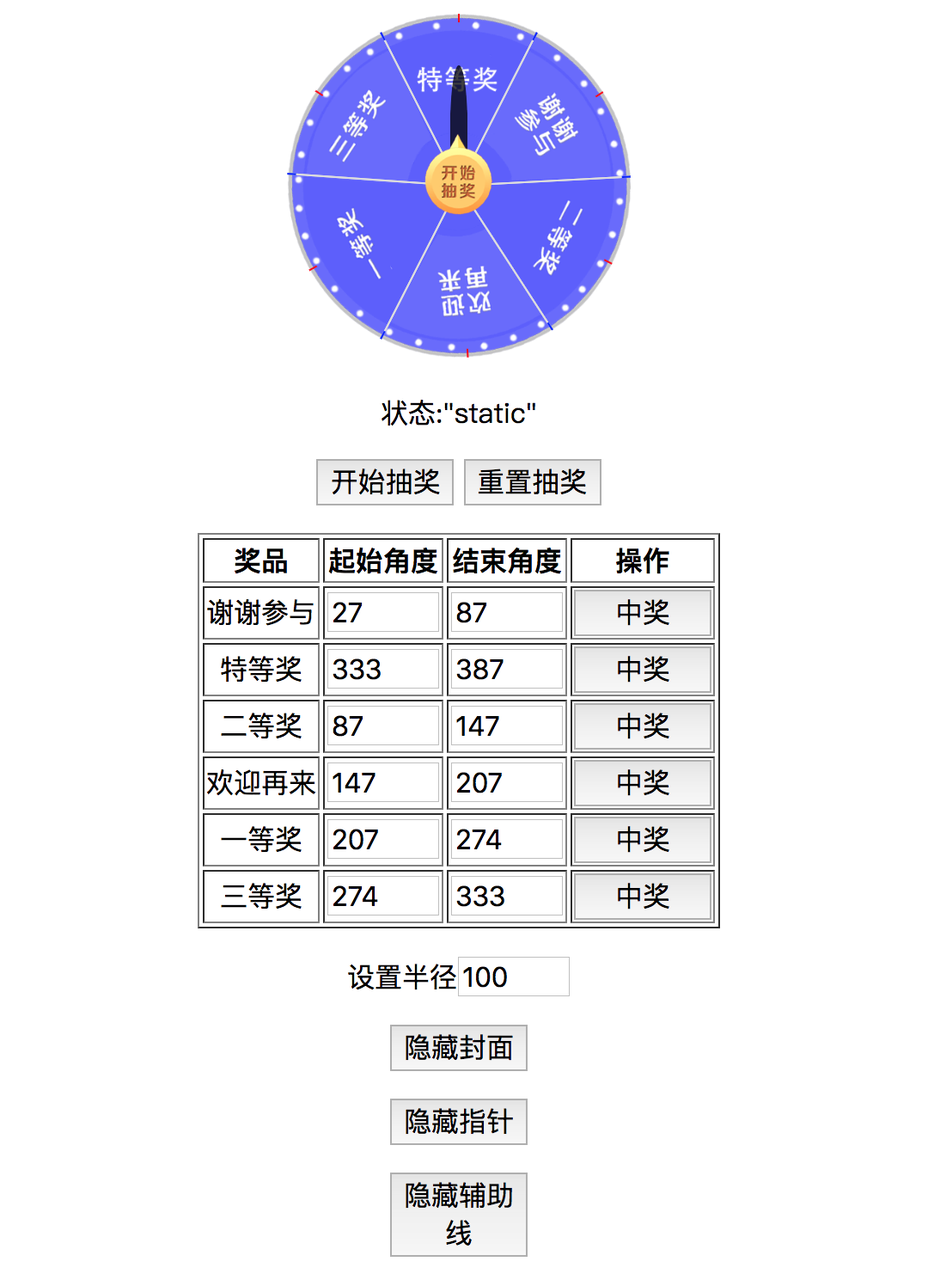
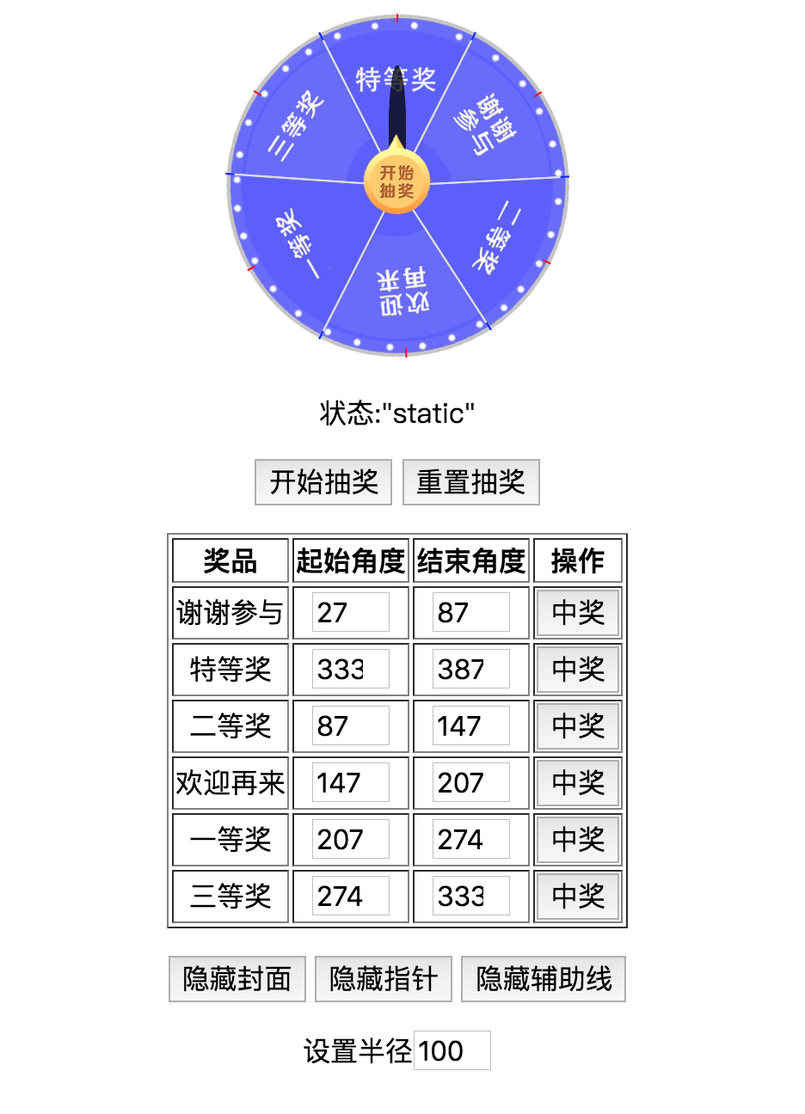
.

Changed region(s): [[0.1859, 0.0, 0.8056, 0.9877]]

diff --git a/dist/sample/sample.js b/dist/sample/sample.js
@@ -1,1 +1,1 @@
-webpackJsonp([0],[,,function(t,e){function n(t,e){var n=t[1]||"",a=t[3];if(!a)return n;if(e&&"function"==typeof btoa){var o=r(a);return[n].concat(a.sources.map(function(t){return"/*# sourceURL="+a.sourceRoot+t+" */"})).concat([o]).join("\n")}return[n].join("\n")}function r(t){return"/*# sourceMappingURL=data:application/json;charset=utf-8;base64,"+btoa(unescape(encodeURIComponent(JSON.stringify(t))))+" */"}t.exports=function(t){var e=[];return e.toString=function(){return this.map(function(e){var r=n(e,t);return e[2]?"@media "+e[2]+"{"+r+"}":r}).join("")},e.i=function(t,n){"string"==typeof t&&(t=[[null,t,""]]);for(var r={},a=0;a<this.length;a++){var o=this[a][0];"number"==typeof o&&(r[o]=!0)}for(a=0;a<t.length;a++){var i=t[a];"number"==typeof i[0]&&r[i[0]]||(n&&!i[2]?i[2]=n:n&&(i[2]="("+i[2]+") and ("+n+")"),e.push(i))}},e}},function(t,e,n){function r(t){for(var e=0;e<t.length;e++){var n=t[e],r=d[n.id];if(r){r.refs++;for(var a=0;a<r.parts.length;a++)r.parts[a](n.parts[a]);for(;a<n.parts.length;a++)r.parts.push(o(n.parts[a]));r.parts.length>n.parts.length&&(r.parts.length=n.parts.length)}else{for(var i=[],a=0;a<n.parts.length;a++)i.push(o(n.parts[a]));d[n.id]={id:n.id,refs:1,parts:i}}}}function a(){var t=document.createElement("style");return t.type="text/css",c.appendChild(t),t}function o(t){var e,n,r=document.querySelector('style[data-vue-ssr-id~="'+t.id+'"]');if(r){if(v)return m;r.parentNode.removeChild(r)}if(b){var o=p++;r=f||(f=a()),e=i.bind(null,r,o,!1),n=i.bind(null,r,o,!0)}else r=a(),e=s.bind(null,r),n=function(){r.parentNode.removeChild(r)};return e(t),function(r){if(r){if(r.css===t.css&&r.media===t.media&&r.sourceMap===t.sourceMap)return;e(t=r)}else n()}}function i(t,e,n,r){var a=n?"":r.css;if(t.styleSheet)t.styleSheet.cssText=h(e,a);else{var o=document.createTextNode(a),i=t.childNodes;i[e]&&t.removeChild(i[e]),i.length?t.insertBefore(o,i[e]):t.appendChild(o)}}function s(t,e){var n=e.css,r=e.media,a=e.sourceMap;if(r&&t.setAttribute("media",r),a&&(n+="\n/*# sourceURL="+a.sources[0]+" */",n+="\n/*# sourceMappingURL=data:application/json;base64,"+btoa(unescape(encodeURIComponent(JSON.stringify(a))))+" */"),t.styleSheet)t.styleSheet.cssText=n;else{for(;t.firstChild;)t.removeChild(t.firstChild);t.appendChild(document.createTextNode(n))}}var u="undefined"!=typeof document;if("undefined"!=typeof DEBUG&&DEBUG&&!u)throw new Error("vue-style-loader cannot be used in a non-browser environment. Use { target: 'node' } in your Webpack config to indicate a server-rendering environment.");var l=n(14),d={},c=u&&(document.head||document.getElementsByTagName("head")[0]),f=null,p=0,v=!1,m=function(){},b="undefined"!=typeof navigator&&/msie [6-9]\b/.test(navigator.userAgent.toLowerCase());t.exports=function(t,e,n){v=n;var a=l(t,e);return r(a),function(e){for(var n=[],o=0;o<a.length;o++){var i=a[o],s=d[i.id];s.refs--,n.push(s)}e?(a=l(t,e),r(a)):a=[];for(var o=0;o<n.length;o++){var s=n[o];if(0===s.refs){for(var u=0;u<s.parts.length;u++)s.parts[u]();delete d[s.id]}}}};var h=function(){var t=[];return function(e,n){return t[e]=n,t.filter(Boolean).join("\n")}}()},function(t,e){t.exports=function(t,e,n,r,a,o){var i,s=t=t||{},u=typeof t.default;"object"!==u&&"function"!==u||(i=t,s=t.default);var l="function"==typeof s?s.options:s;e&&(l.render=e.render,l.staticRenderFns=e.staticRenderFns,l._compiled=!0),n&&(l.functional=!0),a&&(l._scopeId=a);var d;if(o?(d=function(t){t=t||this.$vnode&&this.$vnode.ssrContext||this.parent&&this.parent.$vnode&&this.parent.$vnode.ssrContext,t||"undefined"==typeof __VUE_SSR_CONTEXT__||(t=__VUE_SSR_CONTEXT__),r&&r.call(this,t),t&&t._registeredComponents&&t._registeredComponents.add(o)},l._ssrRegister=d):r&&(d=r),d){var c=l.functional,f=c?l.render:l.beforeCreate;c?(l._injectStyles=d,l.render=function(t,e){return d.call(e),f(t,e)}):l.beforeCreate=f?[].concat(f,d):[d]}return{esModule:i,exports:s,options:l}}},,,,,function(t,e,n){t.exports=n(10)},function(t,e,n){"use strict";function r(t){return t&&t.__esModule?t:{default:t}}var a=n(0),o=r(a),i=n(11),s=r(i);new o.default({el:"#page-sample",render:function(t){return t(s.default)}})},function(t,e,n){"use strict";function r(t){n(12)}Object.defineProperty(e,"__esModule",{value:!0});var a=n(15),o=n.n(a),i=n(22),s=n(4),u=r,l=s(o.a,i.a,!1,u,null,null);e.default=l.exports},function(t,e,n){var r=n(13);"string"==typeof r&&(r=[[t.i,r,""]]),r.locals&&(t.exports=r.locals);n(3)("53f0599c",r,!0)},function(t,e,n){e=t.exports=n(2)(void 0),e.push([t.i,".wrapper{text-align:center}button,input{font-size:inherit;width:80px}input[type=number]{width:60px}",""])},function(t,e){t.exports=function(t,e){for(var n=[],r={},a=0;a<e.length;a++){var o=e[a],i=o[0],s=o[1],u=o[2],l=o[3],d={id:t+":"+a,css:s,media:u,sourceMap:l};r[i]?r[i].parts.push(d):n.push(r[i]={id:i,parts:[d]})}return n}},function(t,e,n){"use strict";Object.defineProperty(e,"__esModule",{value:!0});var r=n(16),a=function(t){return t&&t.__esModule?t:{default:t}}(r);e.default={components:{Roulette:a.default},data:function(){return{sample:{state:"static"},roulette:{coverurl:"assets/r.png",pointerurl:"assets/p.png",radius:100,test:!0,datas:[{name:"thanku",degs:[27,87],desc:"谢谢参与"},{name:"ps",degs:[333,387],desc:"特等奖"},{name:"p2",degs:[87,147],desc:"二等奖"},{name:"welcome",degs:[147,207],desc:"欢迎再来"},{name:"p1",degs:[207,274],desc:"一等奖"},{name:"p3",degs:[274,333],desc:"三等奖"}]}}},methods:{clickFun:function(){this.$refs.luckyRoulette.play()},brake:function(t){this.$refs.luckyRoulette.brake(t)},reset:function(){this.$refs.luckyRoulette.reset()},duringHandle:function(t){this.sample.state=t},toggleCoverUrl:function(){this.roulette.coverurl=this.roulette.coverurl?"":"assets/r.png"},togglePointerUrl:function(){this.roulette.pointerurl=this.roulette.pointerurl?"":"assets/p.png"},toggleTest:function(){this.roulette.test=!this.roulette.test},setRadius:function(t){this.roulette.radius=t}},created:function(){}}},function(t,e,n){"use strict";Object.defineProperty(e,"__esModule",{value:!0});var r=n(17),a=function(t){return t&&t.__esModule?t:{default:t}}(r);a.default.install=function(t){t.component(a.default.name,a.default)},e.default=a.default},function(t,e,n){"use strict";function r(t){n(18)}Object.defineProperty(e,"__esModule",{value:!0});var a=n(20),o=n.n(a),i=n(21),s=n(4),u=r,l=s(o.a,i.a,!1,u,"data-v-6fbaf6df",null);e.default=l.exports},function(t,e,n){var r=n(19);"string"==typeof r&&(r=[[t.i,r,""]]),r.locals&&(t.exports=r.locals);n(3)("244272f4",r,!0)},function(t,e,n){e=t.exports=n(2)(void 0),e.push([t.i,'.roulette[data-v-6fbaf6df]{position:relative;border-radius:50%;display:inline-block}.roulette[data-v-6fbaf6df],.roulette [data-v-6fbaf6df]{-webkit-box-sizing:border-box;box-sizing:border-box}.roulette_roundel[data-v-6fbaf6df]{position:relative;width:100%;height:100%;background-size:100%;background-position:50%;background-repeat:no-repeat}.roulette_roundel--cover[data-v-6fbaf6df]{display:block;width:100%;height:100%;position:absolute;z-index:1;left:0;top:0}.roulette_roundel--subline[data-v-6fbaf6df]{position:absolute;display:inline-block;top:0;left:50%;height:50%;transform-origin:0 100%;text-align:center;width:1px;z-index:9}.roulette_roundel--subline.\\--line[data-v-6fbaf6df]{border-top:5px solid blue;background:#ddd}.roulette_roundel--subline.\\--mid[data-v-6fbaf6df]{border-top:5px solid red;background-color:transparent}.roulette_pointer--image[data-v-6fbaf6df]{position:absolute;top:50%;left:40%;width:20%;height:auto;-webkit-transform:translateY(-50%);transform:translateY(-50%);cursor:pointer}.roulette_pointer--image img[data-v-6fbaf6df]{width:100%}.roulette_pointer--test[data-v-6fbaf6df]{position:absolute;width:10px;height:35%;left:50%;top:15%;-webkit-transform:translateX(-50%);transform:translateX(-50%);border-radius:50% 50% 5px 5px;background-color:rgba(0,0,0,.75)}.roulette_pointer--test[data-v-6fbaf6df]:after{content:"";position:absolute;width:20px;height:30px;display:inline-block;background-color:rgba(0,0,0,.75);bottom:-10px;left:-5px;border-radius:50% 50% 10px 10px}.brake[data-v-6fbaf6df],.static[data-v-6fbaf6df],.trans[data-v-6fbaf6df]{-webkit-transform:rotate(0deg);-webkit-transition-property:-webkit-transform;-webkit-transition-timing-function:ease-out;transform:rotate(0deg);transition-property:transform;transition-timing-function:ease-out}.play[data-v-6fbaf6df]{-webkit-animation-name:play--rotate-data-v-6fbaf6df;-webkit-animation-iteration-count:infinite;-webkit-animation-timing-function:linear;animation-name:play--rotate-data-v-6fbaf6df;animation-iteration-count:infinite;animation-timing-function:linear}@-webkit-keyframes play--rotate-data-v-6fbaf6df{0%{-webkit-transform:rotate(0deg)}to{-webkit-transform:rotate(1turn)}}@keyframes play--rotate-data-v-6fbaf6df{0%{transform:rotate(0deg)}to{transform:rotate(1turn)}}',""])},function(t,e,n){"use strict";Object.defineProperty(e,"__esModule",{value:!0});var r={STATIC:"static",PLAY:"play",TRANS:"trans",BRAKE:"brake",STOP:"stop"},a=function(t,e){var n=t>e?[e,t]:[t,e];return Math.floor(Math.random()*(n[1]-n[0]+1))+n[0]};e.default={name:"Roulette",data:function(){return{el:null,elId:0,currState:r.STATIC}},props:{datas:{type:Array,default:function(){return[{name:"p1",degs:[30,90]},{name:"p2",degs:[90,150]},{name:"p3",degs:[150,210]},{name:"p4",degs:[210,270]},{name:"p5",degs:[270,330]},{name:"p6",degs:[330,390]}]}},r:{type:Number,default:100},ease:{type:Number,default:5},speed:{type:Number,default:1},during:{type:Function,default:new Function},coverurl:{type:String},pointerurl:{type:String},test:{type:Boolean,default:!1},vague:{type:Number,default:10},disabled:{type:Boolean,default:!1}},computed:{datum:function(){var t=[],e=[];return this.datas.forEach(function(n,r){var a=n.degs;t.push((a[0]+a[1])/2%360),e.push(a[0],a[1])}),{mid:t,line:e}},diameter:function(){return{width:2*this.r+"px",height:2*this.r+"px"}}},methods:{handleClick:function(t){this.$emit("click",t)},play:function(){var t=this;this.disabled||this.currState!=r.STATIC&&this.currState!=r.STOP||(this.reset(),setTimeout(function(){t.currState=r.PLAY},20))},brake:function(t){var e=this;if(this.currState==r.PLAY){var n=this.datas.find(function(e,n){return e.name==t});if(!n)return void console.log("No target found");var o=n.degs,i=a(o[0]+this.vague,o[1]-this.vague),s=360*parseInt(Math.abs(this.ease))+360-i,u=(s/360*this.speed).toFixed(2);this.currState=r.TRANS,setTimeout(function(){e.currState=r.BRAKE,e.el.style.cssText="-webkit-transform:rotate("+s+"deg);\n\t\t\t\t\t\t-webkit-transition-duration:"+u+"s;\n\t\t\t\t\t\ttransform:rotate("+s+"deg);\n\t\t\t\t\t\ttransition-duration:"+u+"s"},20)}},reset:function(){this.currState=r.STATIC},_sublineStyle:function(t){return"-webkit-transform:rotate("+t+"deg) translateX(-50%);transform:rotate("+t+"deg) translateX(-50%);"},_roundelStyle:function(){var t=Math.max(this.speed-.15,.15);return"play"==this.currState?"-webkit-animation-duration: "+t+"s;animation-duration: "+t+"s;":""},_transEnd:function(){this.currState==r.BRAKE&&(this.currState=r.STOP)}},watch:{currState:function(t,e){t==r.STATIC&&(this.el.style.cssText=""),this.during(t)}},created:function(){this.elId="__roulette_"+this._uid+"_"+(new Date).getTime()},mounted:function(){this.el=document.getElementById(this.elId)}}},function(t,e,n){"use strict";var r=function(){var t=this,e=t.$createElement,n=t._self._c||e;return n("div",{staticClass:"roulette",style:[t.diameter]},[n("div",{staticClass:"roulette_roundel",class:t.currState,style:t._roundelStyle(),attrs:{id:t.elId},on:{transitionend:t._transEnd,webkitTransitionEnd:t._transEnd}},[n("span",{staticClass:"roulette_roundel--cover"},[t.coverurl?n("img",{attrs:{width:"100%",height:"100%",src:t.coverurl,alt:""}}):t._e()]),t._v(" "),t._l(t.datum.mid,function(e,r){return t.test?n("span",{key:"m"+r,staticClass:"roulette_roundel--subline --mid",style:t._sublineStyle(e)}):t._e()}),t._v(" "),t._l(t.datum.line,function(e,r){return t.test?n("span",{key:"l"+r,staticClass:"roulette_roundel--subline --line",style:t._sublineStyle(e)}):t._e()})],2),t._v(" "),t.test?n("div",{staticClass:"roulette_pointer--test"}):t._e(),t._v(" "),n("div",{staticClass:"roulette_pointer--image",on:{click:t.handleClick}},[t.pointerurl?n("img",{attrs:{src:t.pointerurl,alt:""}}):t._e()])])},a=[],o={render:r,staticRenderFns:a};e.a=o},function(t,e,n){"use strict";var r=function(){var t=this,e=t.$createElement,n=t._self._c||e;return n("div",{staticClass:"wrapper"},[n("Roulette",{ref:"luckyRoulette",attrs:{r:t.roulette.radius,coverurl:t.roulette.coverurl,datas:t.roulette.datas,test:t.roulette.test,pointerurl:t.roulette.pointerurl,during:t.duringHandle},on:{click:t.clickFun}}),t._v(" "),n("div",{staticClass:"sample"},[n("p",[t._v('状态:"'+t._s(t.sample.state)+'"')]),t._v(" "),n("p",[n("button",{attrs:{type:"button"},on:{click:t.clickFun}},[t._v("开始抽奖")]),t._v(" "),n("button",{attrs:{type:"button"},on:{click:t.reset}},[t._v("重置抽奖")])]),t._v(" "),n("div",[n("table",{staticStyle:{margin:"auto"},attrs:{border:"1"}},[t._m(0),t._v(" "),n("tbody",t._l(t.roulette.datas,function(e){return n("tr",{key:e.name},[n("td",[t._v(t._s(e.desc))]),t._v(" "),n("td",[n("input",{directives:[{name:"model",rawName:"v-model.number",value:e.degs[0],expression:"item.degs[0]",modifiers:{number:!0}}],attrs:{type:"number"},domProps:{value:e.degs[0]},on:{input:function(n){n.target.composing||t.$set(e.degs,0,t._n(n.target.value))},blur:function(e){t.$forceUpdate()}}})]),t._v(" "),n("td",[n("input",{directives:[{name:"model",rawName:"v-model.number",value:e.degs[1],expression:"item.degs[1]",modifiers:{number:!0}}],attrs:{type:"number"},domProps:{value:e.degs[1]},on:{input:function(n){n.target.composing||t.$set(e.degs,1,t._n(n.target.value))},blur:function(e){t.$forceUpdate()}}})]),t._v(" "),n("td",[n("button",{attrs:{type:"button"},on:{click:function(n){t.brake(e.name)}}},[t._v("中奖")])])])}))])]),t._v(" "),n("p",[n("label",{attrs:{for:"radius"}},[t._v("设置半径"),n("input",{directives:[{name:"model",rawName:"v-model.number",value:t.roulette.radius,expression:"roulette.radius",modifiers:{number:!0}}],attrs:{type:"number",id:"radius"},domProps:{value:t.roulette.radius},on:{input:function(e){e.target.composing||t.$set(t.roulette,"radius",t._n(e.target.value))},blur:function(e){t.$forceUpdate()}}})])]),t._v(" "),n("p",[n("button",{attrs:{type:"button"},on:{click:t.toggleCoverUrl}},[t._v(t._s(t.roulette.coverurl?"隐藏":"显示")+"封面")])]),t._v(" "),n("p",[n("button",{attrs:{type:"button"},on:{click:t.togglePointerUrl}},[t._v(t._s(t.roulette.pointerurl?"隐藏":"显示")+"指针")])]),t._v(" "),n("p",[n("button",{attrs:{type:"button"},on:{click:t.toggleTest}},[t._v(t._s(t.roulette.test?"隐藏":"显示")+"辅助线")])])])],1)},a=[function(){var t=this,e=t.$createElement,n=t._self._c||e;return n("thead",[n("tr",[n("th",[t._v("奖品")]),t._v(" "),n("th",[t._v("起始角度")]),t._v(" "),n("th",[t._v("结束角度")]),t._v(" "),n("th",[t._v("操作")])])])}],o={render:r,staticRenderFns:a};e.a=o}],[9]);
+webpackJsonp([0],[,,function(t,e){function n(t,e){var n=t[1]||"",a=t[3];if(!a)return n;if(e&&"function"==typeof btoa){var o=r(a);return[n].concat(a.sources.map(function(t){return"/*# sourceURL="+a.sourceRoot+t+" */"})).concat([o]).join("\n")}return[n].join("\n")}function r(t){return"/*# sourceMappingURL=data:application/json;charset=utf-8;base64,"+btoa(unescape(encodeURIComponent(JSON.stringify(t))))+" */"}t.exports=function(t){var e=[];return e.toString=function(){return this.map(function(e){var r=n(e,t);return e[2]?"@media "+e[2]+"{"+r+"}":r}).join("")},e.i=function(t,n){"string"==typeof t&&(t=[[null,t,""]]);for(var r={},a=0;a<this.length;a++){var o=this[a][0];"number"==typeof o&&(r[o]=!0)}for(a=0;a<t.length;a++){var i=t[a];"number"==typeof i[0]&&r[i[0]]||(n&&!i[2]?i[2]=n:n&&(i[2]="("+i[2]+") and ("+n+")"),e.push(i))}},e}},function(t,e,n){function r(t){for(var e=0;e<t.length;e++){var n=t[e],r=d[n.id];if(r){r.refs++;for(var a=0;a<r.parts.length;a++)r.parts[a](n.parts[a]);for(;a<n.parts.length;a++)r.parts.push(o(n.parts[a]));r.parts.length>n.parts.length&&(r.parts.length=n.parts.length)}else{for(var i=[],a=0;a<n.parts.length;a++)i.push(o(n.parts[a]));d[n.id]={id:n.id,refs:1,parts:i}}}}function a(){var t=document.createElement("style");return t.type="text/css",c.appendChild(t),t}function o(t){var e,n,r=document.querySelector('style[data-vue-ssr-id~="'+t.id+'"]');if(r){if(v)return m;r.parentNode.removeChild(r)}if(b){var o=p++;r=f||(f=a()),e=i.bind(null,r,o,!1),n=i.bind(null,r,o,!0)}else r=a(),e=s.bind(null,r),n=function(){r.parentNode.removeChild(r)};return e(t),function(r){if(r){if(r.css===t.css&&r.media===t.media&&r.sourceMap===t.sourceMap)return;e(t=r)}else n()}}function i(t,e,n,r){var a=n?"":r.css;if(t.styleSheet)t.styleSheet.cssText=g(e,a);else{var o=document.createTextNode(a),i=t.childNodes;i[e]&&t.removeChild(i[e]),i.length?t.insertBefore(o,i[e]):t.appendChild(o)}}function s(t,e){var n=e.css,r=e.media,a=e.sourceMap;if(r&&t.setAttribute("media",r),a&&(n+="\n/*# sourceURL="+a.sources[0]+" */",n+="\n/*# sourceMappingURL=data:application/json;base64,"+btoa(unescape(encodeURIComponent(JSON.stringify(a))))+" */"),t.styleSheet)t.styleSheet.cssText=n;else{for(;t.firstChild;)t.removeChild(t.firstChild);t.appendChild(document.createTextNode(n))}}var u="undefined"!=typeof document;if("undefined"!=typeof DEBUG&&DEBUG&&!u)throw new Error("vue-style-loader cannot be used in a non-browser environment. Use { target: 'node' } in your Webpack config to indicate a server-rendering environment.");var l=n(14),d={},c=u&&(document.head||document.getElementsByTagName("head")[0]),f=null,p=0,v=!1,m=function(){},b="undefined"!=typeof navigator&&/msie [6-9]\b/.test(navigator.userAgent.toLowerCase());t.exports=function(t,e,n){v=n;var a=l(t,e);return r(a),function(e){for(var n=[],o=0;o<a.length;o++){var i=a[o],s=d[i.id];s.refs--,n.push(s)}e?(a=l(t,e),r(a)):a=[];for(var o=0;o<n.length;o++){var s=n[o];if(0===s.refs){for(var u=0;u<s.parts.length;u++)s.parts[u]();delete d[s.id]}}}};var g=function(){var t=[];return function(e,n){return t[e]=n,t.filter(Boolean).join("\n")}}()},function(t,e){t.exports=function(t,e,n,r,a,o){var i,s=t=t||{},u=typeof t.default;"object"!==u&&"function"!==u||(i=t,s=t.default);var l="function"==typeof s?s.options:s;e&&(l.render=e.render,l.staticRenderFns=e.staticRenderFns,l._compiled=!0),n&&(l.functional=!0),a&&(l._scopeId=a);var d;if(o?(d=function(t){t=t||this.$vnode&&this.$vnode.ssrContext||this.parent&&this.parent.$vnode&&this.parent.$vnode.ssrContext,t||"undefined"==typeof __VUE_SSR_CONTEXT__||(t=__VUE_SSR_CONTEXT__),r&&r.call(this,t),t&&t._registeredComponents&&t._registeredComponents.add(o)},l._ssrRegister=d):r&&(d=r),d){var c=l.functional,f=c?l.render:l.beforeCreate;c?(l._injectStyles=d,l.render=function(t,e){return d.call(e),f(t,e)}):l.beforeCreate=f?[].concat(f,d):[d]}return{esModule:i,exports:s,options:l}}},,,,,function(t,e,n){t.exports=n(10)},function(t,e,n){"use strict";function r(t){return t&&t.__esModule?t:{default:t}}var a=n(0),o=r(a),i=n(11),s=r(i);new o.default({el:"#page-sample",render:function(t){return t(s.default)}})},function(t,e,n){"use strict";function r(t){n(12)}Object.defineProperty(e,"__esModule",{value:!0});var a=n(15),o=n.n(a),i=n(22),s=n(4),u=r,l=s(o.a,i.a,!1,u,null,null);e.default=l.exports},function(t,e,n){var r=n(13);"string"==typeof r&&(r=[[t.i,r,""]]),r.locals&&(t.exports=r.locals);n(3)("8b7fbc32",r,!0)},function(t,e,n){e=t.exports=n(2)(void 0),e.push([t.i,".wrapper{text-align:center}input{width:40px}button,input{font-size:inherit}",""])},function(t,e){t.exports=function(t,e){for(var n=[],r={},a=0;a<e.length;a++){var o=e[a],i=o[0],s=o[1],u=o[2],l=o[3],d={id:t+":"+a,css:s,media:u,sourceMap:l};r[i]?r[i].parts.push(d):n.push(r[i]={id:i,parts:[d]})}return n}},function(t,e,n){"use strict";Object.defineProperty(e,"__esModule",{value:!0});var r=n(16),a=function(t){return t&&t.__esModule?t:{default:t}}(r);e.default={components:{Roulette:a.default},data:function(){return{sample:{state:"static"},roulette:{coverurl:"assets/r.png",pointerurl:"assets/p.png",radius:100,test:!0,datas:[{name:"thanku",degs:[27,87],desc:"谢谢参与"},{name:"ps",degs:[333,387],desc:"特等奖"},{name:"p2",degs:[87,147],desc:"二等奖"},{name:"welcome",degs:[147,207],desc:"欢迎再来"},{name:"p1",degs:[207,274],desc:"一等奖"},{name:"p3",degs:[274,333],desc:"三等奖"}]}}},methods:{clickFun:function(){this.$refs.luckyRoulette.play()},brake:function(t){this.$refs.luckyRoulette.brake(t)},reset:function(){this.$refs.luckyRoulette.reset()},duringHandle:function(t){this.sample.state=t},toggleCoverUrl:function(){this.roulette.coverurl=this.roulette.coverurl?"":"assets/r.png"},togglePointerUrl:function(){this.roulette.pointerurl=this.roulette.pointerurl?"":"assets/p.png"},toggleTest:function(){this.roulette.test=!this.roulette.test},setRadius:function(t){this.roulette.radius=t}},created:function(){}}},function(t,e,n){"use strict";Object.defineProperty(e,"__esModule",{value:!0});var r=n(17),a=function(t){return t&&t.__esModule?t:{default:t}}(r);a.default.install=function(t){t.component(a.default.name,a.default)},e.default=a.default},function(t,e,n){"use strict";function r(t){n(18)}Object.defineProperty(e,"__esModule",{value:!0});var a=n(20),o=n.n(a),i=n(21),s=n(4),u=r,l=s(o.a,i.a,!1,u,"data-v-6fbaf6df",null);e.default=l.exports},function(t,e,n){var r=n(19);"string"==typeof r&&(r=[[t.i,r,""]]),r.locals&&(t.exports=r.locals);n(3)("244272f4",r,!0)},function(t,e,n){e=t.exports=n(2)(void 0),e.push([t.i,'.roulette[data-v-6fbaf6df]{position:relative;border-radius:50%;display:inline-block}.roulette[data-v-6fbaf6df],.roulette [data-v-6fbaf6df]{-webkit-box-sizing:border-box;box-sizing:border-box}.roulette_roundel[data-v-6fbaf6df]{position:relative;width:100%;height:100%;background-size:100%;background-position:50%;background-repeat:no-repeat}.roulette_roundel--cover[data-v-6fbaf6df]{display:block;width:100%;height:100%;position:absolute;z-index:1;left:0;top:0}.roulette_roundel--subline[data-v-6fbaf6df]{position:absolute;display:inline-block;top:0;left:50%;height:50%;transform-origin:0 100%;text-align:center;width:1px;z-index:9}.roulette_roundel--subline.\\--line[data-v-6fbaf6df]{border-top:5px solid blue;background:#ddd}.roulette_roundel--subline.\\--mid[data-v-6fbaf6df]{border-top:5px solid red;background-color:transparent}.roulette_pointer--image[data-v-6fbaf6df]{position:absolute;top:50%;left:40%;width:20%;height:auto;-webkit-transform:translateY(-50%);transform:translateY(-50%);cursor:pointer}.roulette_pointer--image img[data-v-6fbaf6df]{width:100%}.roulette_pointer--test[data-v-6fbaf6df]{position:absolute;width:10px;height:35%;left:50%;top:15%;-webkit-transform:translateX(-50%);transform:translateX(-50%);border-radius:50% 50% 5px 5px;background-color:rgba(0,0,0,.75)}.roulette_pointer--test[data-v-6fbaf6df]:after{content:"";position:absolute;width:20px;height:30px;display:inline-block;background-color:rgba(0,0,0,.75);bottom:-10px;left:-5px;border-radius:50% 50% 10px 10px}.brake[data-v-6fbaf6df],.static[data-v-6fbaf6df],.trans[data-v-6fbaf6df]{-webkit-transform:rotate(0deg);-webkit-transition-property:-webkit-transform;-webkit-transition-timing-function:ease-out;transform:rotate(0deg);transition-property:transform;transition-timing-function:ease-out}.play[data-v-6fbaf6df]{-webkit-animation-name:play--rotate-data-v-6fbaf6df;-webkit-animation-iteration-count:infinite;-webkit-animation-timing-function:linear;animation-name:play--rotate-data-v-6fbaf6df;animation-iteration-count:infinite;animation-timing-function:linear}@-webkit-keyframes play--rotate-data-v-6fbaf6df{0%{-webkit-transform:rotate(0deg)}to{-webkit-transform:rotate(1turn)}}@keyframes play--rotate-data-v-6fbaf6df{0%{transform:rotate(0deg)}to{transform:rotate(1turn)}}',""])},function(t,e,n){"use strict";Object.defineProperty(e,"__esModule",{value:!0});var r={STATIC:"static",PLAY:"play",TRANS:"trans",BRAKE:"brake",STOP:"stop"},a=function(t,e){var n=t>e?[e,t]:[t,e];return Math.floor(Math.random()*(n[1]-n[0]+1))+n[0]};e.default={name:"Roulette",data:function(){return{el:null,elId:0,currState:r.STATIC}},props:{datas:{type:Array,default:function(){return[{name:"p1",degs:[30,90]},{name:"p2",degs:[90,150]},{name:"p3",degs:[150,210]},{name:"p4",degs:[210,270]},{name:"p5",degs:[270,330]},{name:"p6",degs:[330,390]}]}},r:{type:Number,default:100},ease:{type:Number,default:5},speed:{type:Number,default:1},during:{type:Function,default:new Function},coverurl:{type:String},pointerurl:{type:String},test:{type:Boolean,default:!1},vague:{type:Number,default:10},disabled:{type:Boolean,default:!1}},computed:{datum:function(){var t=[],e=[];return this.datas.forEach(function(n,r){var a=n.degs;t.push((a[0]+a[1])/2%360),e.push(a[0],a[1])}),{mid:t,line:e}},diameter:function(){return{width:2*this.r+"px",height:2*this.r+"px"}}},methods:{handleClick:function(t){this.$emit("click",t)},play:function(){var t=this;this.disabled||this.currState!=r.STATIC&&this.currState!=r.STOP||(this.reset(),setTimeout(function(){t.currState=r.PLAY},20))},brake:function(t){var e=this;if(this.currState==r.PLAY){var n=this.datas.find(function(e,n){return e.name==t});if(!n)return void console.log("No target found");var o=n.degs,i=a(o[0]+this.vague,o[1]-this.vague),s=360*parseInt(Math.abs(this.ease))+360-i,u=(s/360*this.speed).toFixed(2);this.currState=r.TRANS,setTimeout(function(){e.currState=r.BRAKE,e.el.style.cssText="-webkit-transform:rotate("+s+"deg);\n\t\t\t\t\t\t-webkit-transition-duration:"+u+"s;\n\t\t\t\t\t\ttransform:rotate("+s+"deg);\n\t\t\t\t\t\ttransition-duration:"+u+"s"},20)}},reset:function(){this.currState=r.STATIC},_sublineStyle:function(t){return"-webkit-transform:rotate("+t+"deg) translateX(-50%);transform:rotate("+t+"deg) translateX(-50%);"},_roundelStyle:function(){var t=Math.max(this.speed-.15,.15);return"play"==this.currState?"-webkit-animation-duration: "+t+"s;animation-duration: "+t+"s;":""},_transEnd:function(){this.currState==r.BRAKE&&(this.currState=r.STOP)}},watch:{currState:function(t,e){t==r.STATIC&&(this.el.style.cssText=""),this.during(t)}},created:function(){this.elId="__roulette_"+this._uid+"_"+(new Date).getTime()},mounted:function(){this.el=document.getElementById(this.elId)}}},function(t,e,n){"use strict";var r=function(){var t=this,e=t.$createElement,n=t._self._c||e;return n("div",{staticClass:"roulette",style:[t.diameter]},[n("div",{staticClass:"roulette_roundel",class:t.currState,style:t._roundelStyle(),attrs:{id:t.elId},on:{transitionend:t._transEnd,webkitTransitionEnd:t._transEnd}},[n("span",{staticClass:"roulette_roundel--cover"},[t.coverurl?n("img",{attrs:{width:"100%",height:"100%",src:t.coverurl,alt:""}}):t._e()]),t._v(" "),t._l(t.datum.mid,function(e,r){return t.test?n("span",{key:"m"+r,staticClass:"roulette_roundel--subline --mid",style:t._sublineStyle(e)}):t._e()}),t._v(" "),t._l(t.datum.line,function(e,r){return t.test?n("span",{key:"l"+r,staticClass:"roulette_roundel--subline --line",style:t._sublineStyle(e)}):t._e()})],2),t._v(" "),t.test?n("div",{staticClass:"roulette_pointer--test"}):t._e(),t._v(" "),n("div",{staticClass:"roulette_pointer--image",on:{click:t.handleClick}},[t.pointerurl?n("img",{attrs:{src:t.pointerurl,alt:""}}):t._e()])])},a=[],o={render:r,staticRenderFns:a};e.a=o},function(t,e,n){"use strict";var r=function(){var t=this,e=t.$createElement,n=t._self._c||e;return n("div",{staticClass:"wrapper"},[n("Roulette",{ref:"luckyRoulette",attrs:{r:t.roulette.radius,coverurl:t.roulette.coverurl,datas:t.roulette.datas,test:t.roulette.test,pointerurl:t.roulette.pointerurl,during:t.duringHandle},on:{click:t.clickFun}}),t._v(" "),n("div",{staticClass:"sample"},[n("p",[t._v('状态:"'+t._s(t.sample.state)+'"')]),t._v(" "),n("p",[n("button",{attrs:{type:"button"},on:{click:t.clickFun}},[t._v("开始抽奖")]),t._v(" "),n("button",{attrs:{type:"button"},on:{click:t.reset}},[t._v("重置抽奖")])]),t._v(" "),n("div",[n("table",{staticStyle:{margin:"auto"},attrs:{border:"1"}},[t._m(0),t._v(" "),n("tbody",t._l(t.roulette.datas,function(e){return n("tr",{key:e.name},[n("td",[t._v(t._s(e.desc))]),t._v(" "),n("td",[n("input",{directives:[{name:"model",rawName:"v-model.number",value:e.degs[0],expression:"item.degs[0]",modifiers:{number:!0}}],attrs:{type:"number"},domProps:{value:e.degs[0]},on:{input:function(n){n.target.composing||t.$set(e.degs,0,t._n(n.target.value))},blur:function(e){t.$forceUpdate()}}})]),t._v(" "),n("td",[n("input",{directives:[{name:"model",rawName:"v-model.number",value:e.degs[1],expression:"item.degs[1]",modifiers:{number:!0}}],attrs:{type:"number"},domProps:{value:e.degs[1]},on:{input:function(n){n.target.composing||t.$set(e.degs,1,t._n(n.target.value))},blur:function(e){t.$forceUpdate()}}})]),t._v(" "),n("td",[n("button",{attrs:{type:"button"},on:{click:function(n){t.brake(e.name)}}},[t._v("中奖")])])])}))])]),t._v(" "),n("p",[n("button",{attrs:{type:"button"},on:{click:t.toggleCoverUrl}},[t._v(t._s(t.roulette.coverurl?"隐藏":"显示")+"封面")]),t._v(" "),n("button",{attrs:{type:"button"},on:{click:t.togglePointerUrl}},[t._v(t._s(t.roulette.pointerurl?"隐藏":"显示")+"指针")]),t._v(" "),n("button",{attrs:{type:"button"},on:{click:t.toggleTest}},[t._v(t._s(t.roulette.test?"隐藏":"显示")+"辅助线")])]),t._v(" "),n("p",[n("label",{attrs:{for:"radius"}},[t._v("设置半径"),n("input",{directives:[{name:"model",rawName:"v-model.number",value:t.roulette.radius,expression:"roulette.radius",modifiers:{number:!0}}],attrs:{type:"number",id:"radius"},domProps:{value:t.roulette.radius},on:{input:function(e){e.target.composing||t.$set(t.roulette,"radius",t._n(e.target.value))},blur:function(e){t.$forceUpdate()}}})])])])],1)},a=[function(){var t=this,e=t.$createElement,n=t._self._c||e;return n("thead",[n("tr",[n("th",[t._v("奖品")]),t._v(" "),n("th",[t._v("起始角度")]),t._v(" "),n("th",[t._v("结束角度")]),t._v(" "),n("th",[t._v("操作")])])])}],o={render:r,staticRenderFns:a};e.a=o}],[9]);

diff --git a/src/sample.vue b/src/sample.vue
@@ -30,17 +30,16 @@
 				</table>
 			</div>
 			<p>
-				<label for="radius">设置半径<input type="number" id="radius" v-model.number="roulette.radius"></label>
-			</p>
-			<p>
 				<button type="button" @click="toggleCoverUrl">{{roulette.coverurl?'隐藏':'显示'}}封面</button>
-			</p>
-			<p>
+
 				<button type="button" @click="togglePointerUrl">{{roulette.pointerurl?'隐藏':'显示'}}指针</button>
-			</p>
-			<p>
+
 				<button type="button" @click="toggleTest">{{roulette.test?'隐藏':'显示'}}辅助线</button>
 			</p>
+			<p>
+				<label for="radius">设置半径<input type="number" id="radius" v-model.number="roulette.radius"></label>
+			</p>
+
 		</div>
 	</div>
 </template>
@@ -126,13 +125,12 @@
 		text-align: center;
 	}
 
-	input,
-	button {
+	input {
 		font-size: inherit;
-		width: 80px;
+		width: 40px;
 	}
 
-	input[type="number"] {
-		width: 60px;
+	button {
+		font-size: inherit;
 	}
 </style>
